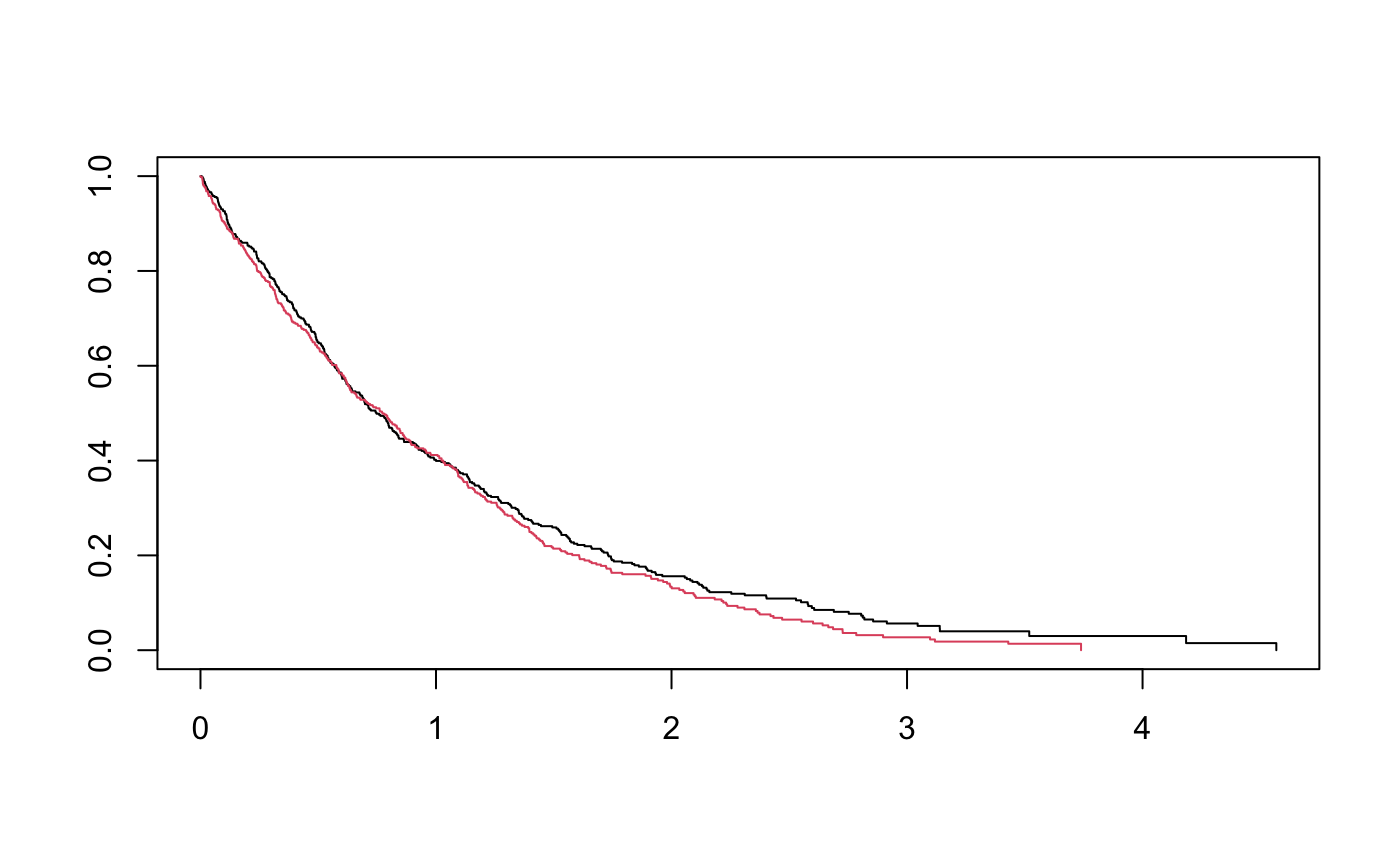
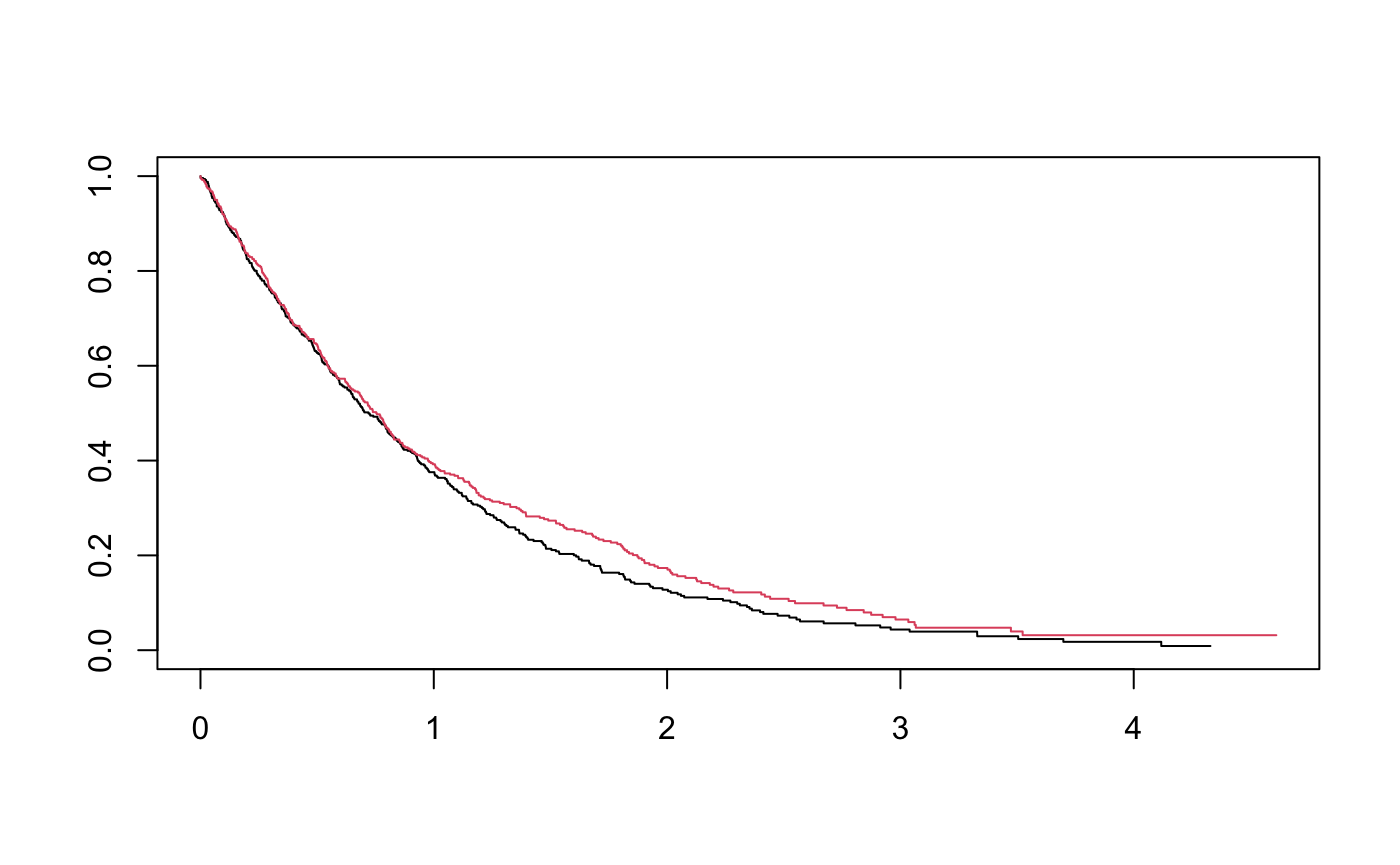
Built site for miboot: 0.0.0.9000@20813d9

diff --git a/articles/mar.html b/articles/mar.html
@@ -134,15 +134,15 @@
 <span class="co">#&gt; </span>
 <span class="co">#&gt;       pattern</span>
 <span class="co">#&gt; status   1   2   3</span>
-<span class="co">#&gt;      0   0   0 111</span>
-<span class="co">#&gt;      1 480   0   0</span>
+<span class="co">#&gt;      0   0   0 134</span>
+<span class="co">#&gt;      1 451   0   0</span>
 <span class="co">#&gt; </span>
 <span class="co">#&gt; , ,  = TRUE</span>
 <span class="co">#&gt; </span>
 <span class="co">#&gt;       pattern</span>
 <span class="co">#&gt; status   1   2   3</span>
-<span class="co">#&gt;      0   0  66   0</span>
-<span class="co">#&gt;      1 343   0   0</span>
+<span class="co">#&gt;      0   0  61   0</span>
+<span class="co">#&gt;      1 354   0   0</span>
 </pre></div>
 </div>
 <div id="mar-analysis" class="section level1">
@@ -161,21 +161,21 @@
 <span class="co">#&gt; </span>
 <span class="co">#&gt; Restricted Mean Survival Time (RMST) by arm </span>
 <span class="co">#&gt;               Est.    se lower .95 upper .95</span>
-<span class="co">#&gt; RMST (arm=1) 0.966 0.038     0.892     1.041</span>
-<span class="co">#&gt; RMST (arm=0) 1.028 0.041     0.947     1.108</span>
+<span class="co">#&gt; RMST (arm=1) 1.039 0.043     0.955     1.124</span>
+<span class="co">#&gt; RMST (arm=0) 0.952 0.039     0.877     1.028</span>
 <span class="co">#&gt; </span>
 <span class="co">#&gt; </span>
 <span class="co">#&gt; Restricted Mean Time Lost (RMTL) by arm </span>
 <span class="co">#&gt;               Est.    se lower .95 upper .95</span>
-<span class="co">#&gt; RMTL (arm=1) 2.034 0.038     1.959     2.108</span>
-<span class="co">#&gt; RMTL (arm=0) 1.972 0.041     1.892     2.053</span>
+<span class="co">#&gt; RMTL (arm=1) 1.961 0.043     1.876     2.045</span>
+<span class="co">#&gt; RMTL (arm=0) 2.048 0.039     1.972     2.123</span>
 <span class="co">#&gt; </span>
 <span class="co">#&gt; </span>
 <span class="co">#&gt; Between-group contrast </span>
-<span class="co">#&gt;                        Est. lower .95 upper .95     p</span>
-<span class="co">#&gt; RMST (arm=1)-(arm=0) -0.061    -0.170     0.048 0.273</span>
-<span class="co">#&gt; RMST (arm=1)/(arm=0)  0.941     0.843     1.049 0.273</span>
-<span class="co">#&gt; RMTL (arm=1)/(arm=0)  1.031     0.976     1.089 0.274</span>
+<span class="co">#&gt;                       Est. lower .95 upper .95     p</span>
+<span class="co">#&gt; RMST (arm=1)-(arm=0) 0.087    -0.026     0.201 0.132</span>
+<span class="co">#&gt; RMST (arm=1)/(arm=0) 1.092     0.974     1.223 0.131</span>
+<span class="co">#&gt; RMTL (arm=1)/(arm=0) 0.957     0.905     1.013 0.133</span>
 </pre></div>
 </div>
 <div id="rmst-within-group" class="section level2">
@@ -185,9 +185,9 @@
 <span class="kw">delta</span>   <span class="op">&lt;-</span> <span class="fu"><a href="https://rdrr.io/r/base/c.html">c</a></span>(<span class="fl">1</span>,<span class="fl">1</span>,<span class="fl">1</span>)[<span class="kw">pattern</span>]  <span class="co"># the third number control delta adjustment for MNAR </span>
 <span class="kw">tmp</span> <span class="op">&lt;-</span> <span class="fu">rmst_delta</span>(<span class="kw">time</span>, <span class="kw">status</span>, x = <span class="fu"><a href="https://rdrr.io/r/base/rep.html">rep</a></span>(<span class="fl">1</span>, <span class="fu"><a href="https://rdrr.io/r/base/length.html">length</a></span>(<span class="kw">time</span>)), <span class="kw">group</span>, <span class="kw">pattern</span>, <span class="kw">delta</span>, <span class="kw">tau</span>, n_mi = <span class="fl">5</span>, n_b = <span class="fl">100</span>, seed = <span class="fl">123</span>)
 <span class="kw">tmp</span><span class="op">$</span><span class="kw">rmst</span>
-<span class="co">#&gt;      group      rmst         sd      wb_sd</span>
-<span class="co">#&gt; [1,]     0 1.0265148 0.04291897 0.04002407</span>
-<span class="co">#&gt; [2,]     1 0.9722173 0.03714114 0.03857978</span>
+<span class="co">#&gt;      group     rmst         sd      wb_sd</span>
+<span class="co">#&gt; [1,]     0 0.949875 0.03763343 0.03921610</span>
+<span class="co">#&gt; [2,]     1 1.040221 0.04388536 0.04126976</span>
 </pre></div>
 </div>
 <div id="rmst-between-group" class="section level2">
@@ -203,9 +203,9 @@
 
 <span class="fu"><a href="https://rdrr.io/r/base/cbind.html">rbind</a></span>( <span class="fu">diff_rmst</span>(<span class="kw">tmp</span><span class="op">$</span><span class="kw">rmst</span>[,<span class="st">"rmst"</span>], <span class="kw">tmp</span><span class="op">$</span><span class="kw">rmst</span>[, <span class="st">"sd"</span>]), 
        <span class="fu">diff_rmst</span>(<span class="kw">tmp</span><span class="op">$</span><span class="kw">rmst</span>[,<span class="st">"rmst"</span>], <span class="kw">tmp</span><span class="op">$</span><span class="kw">rmst</span>[, <span class="st">"wb_sd"</span>]))
-<span class="co">#&gt;             diff         sd         p</span>
-<span class="co">#&gt; [1,] -0.05429752 0.05675828 0.3387465</span>
-<span class="co">#&gt; [2,] -0.05429752 0.05559069 0.3286991</span>
+<span class="co">#&gt;           diff         sd         p</span>
+<span class="co">#&gt; [1,] 0.0903462 0.05781177 0.1181079</span>
+<span class="co">#&gt; [2,] 0.0903462 0.05693062 0.1125234</span>
 </pre></div>
 </div>
 </div>
